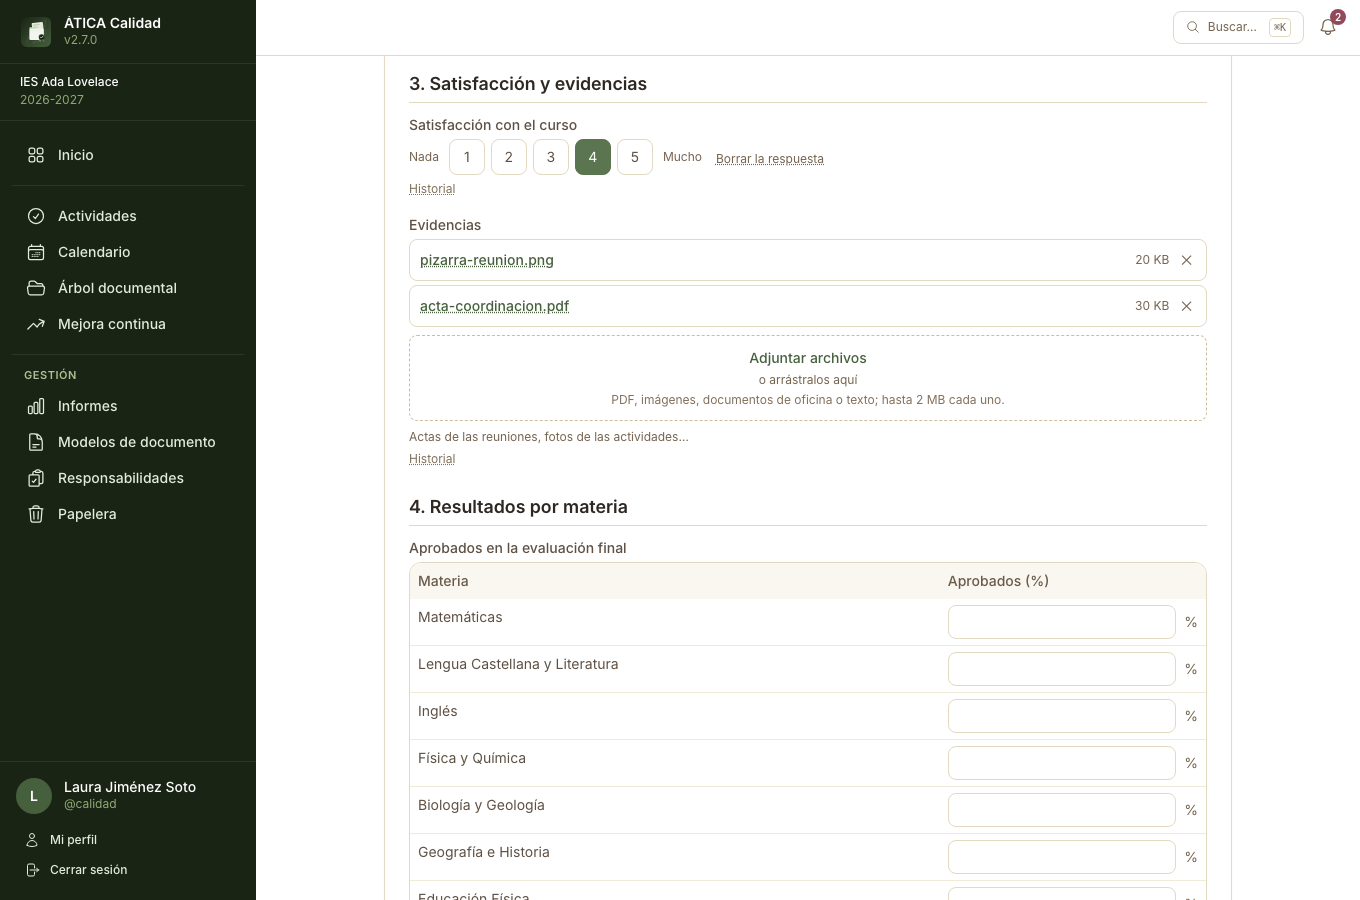
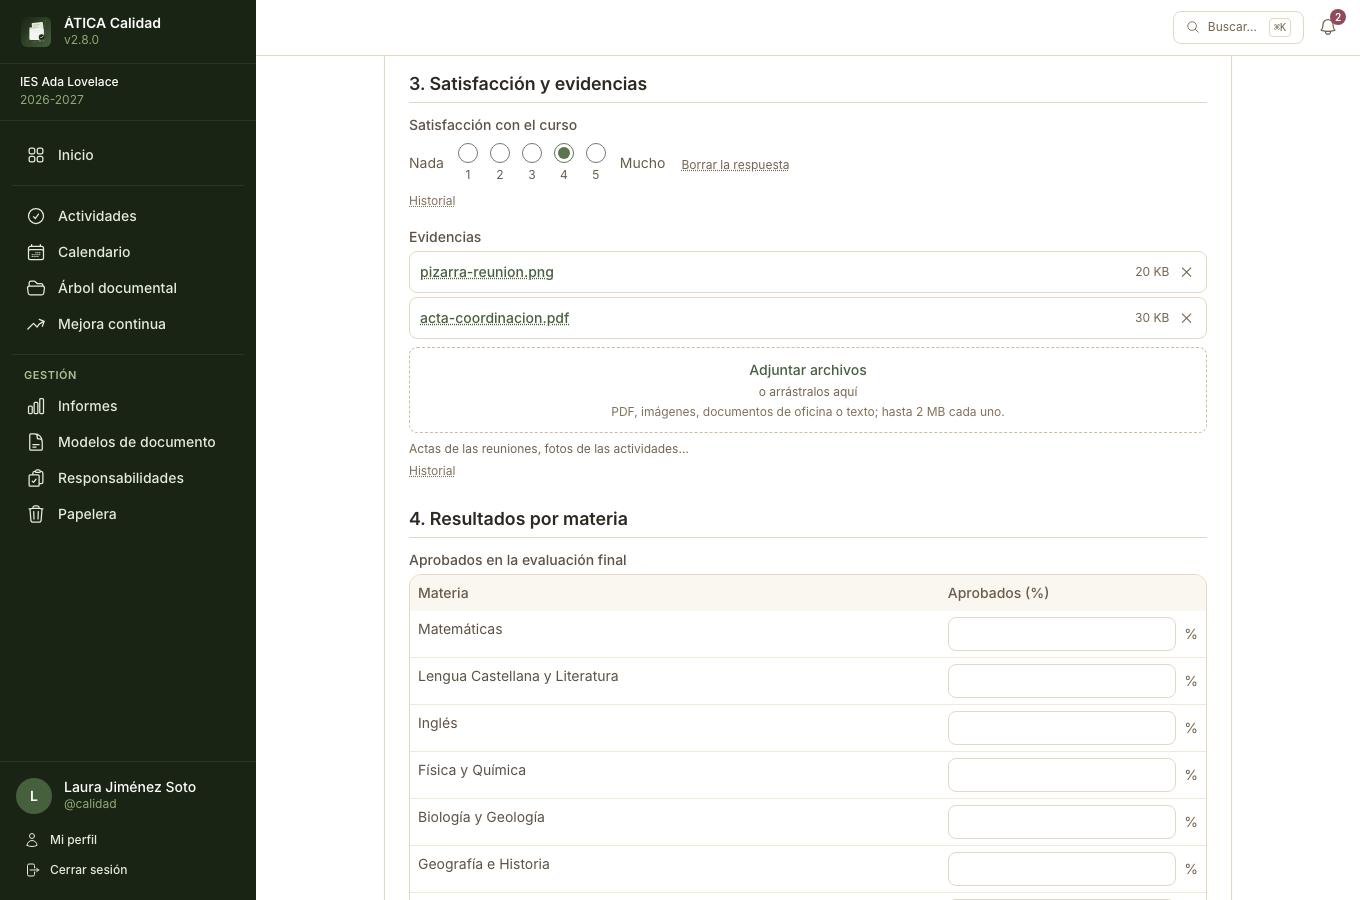
fix(forms): la escala de valoración se contesta con botones de opción visibles, como una escala Likert estándar

diff --git a/assets/controllers/form_fill_controller.js b/assets/controllers/form_fill_controller.js
@@ -772,26 +772,26 @@ export default class extends Controller {
                     text: this.l.clear_answer,
                     onclick: () => { radios.forEach((r) => { r.checked = false; }); clear.hidden = true; onChange(null); },
                 });
-                const pill = (n) => {
+                // The usual look of a rating: a row of radio buttons, the number under each, the words of the ends at the sides.
+                const point = (n) => {
                     const radio = h('input', {
-                        type: 'radio', name, value: String(n), checked: value === n, disabled, class: 'peer sr-only',
+                        type: 'radio', name, value: String(n), checked: value === n, disabled,
+                        class: 'h-5 w-5 cursor-pointer accent-forest-600 disabled:cursor-default',
+                        'aria-label': end(n) ? n + ' · ' + end(n) : String(n),
                         onchange: () => { clear.hidden = !!spec.required; onChange(n); },
                     });
                     radios.push(radio);
-                    return h('label', { class: 'cursor-pointer' }, [
+                    return h('label', { class: 'flex min-w-8 cursor-pointer flex-col items-center gap-1 px-1 py-1' }, [
                         radio,
-                        h('span', {
-                            class: 'flex h-9 min-w-9 items-center justify-center rounded-lg border border-gray-200 px-2 text-sm text-gray-700 hover:bg-gray-50 peer-checked:border-forest-600 peer-checked:bg-forest-600 peer-checked:text-white peer-focus-visible:ring-2 peer-focus-visible:ring-forest-500 peer-disabled:cursor-default',
-                            text: String(n),
-                        }),
+                        h('span', { class: 'text-xs text-gray-600', 'aria-hidden': 'true', text: String(n) }),
                     ]);
                 };
                 return h('fieldset', { id, class: 'min-w-0' }, [
                     h('legend', { class: 'sr-only', text: spec.label || '' }),
-                    h('div', { class: 'flex flex-wrap items-center gap-1.5' }, [
-                        spec.lowLabel ? h('span', { class: 'mr-1 text-xs text-gray-500', text: spec.lowLabel }) : null,
-                        ...Array.from({ length: points }, (_, i) => pill(i + 1)),
-                        spec.highLabel ? h('span', { class: 'ml-1 text-xs text-gray-500', text: spec.highLabel }) : null,
+                    h('div', { class: 'flex flex-wrap items-center gap-x-2 gap-y-1' }, [
+                        spec.lowLabel ? h('span', { class: 'text-sm text-gray-600', 'aria-hidden': 'true', text: spec.lowLabel }) : null,
+                        h('div', { class: 'flex items-start' }, Array.from({ length: points }, (_, i) => point(i + 1))),
+                        spec.highLabel ? h('span', { class: 'text-sm text-gray-600', 'aria-hidden': 'true', text: spec.highLabel }) : null,
                         h('span', { class: 'ml-2' }, [clear]),
                     ]),
                 ]);

diff --git a/docs/manual/12-modelos-de-documento.md b/docs/manual/12-modelos-de-documento.md
@@ -75,7 +75,7 @@ Un modelo se compone de **secciones** (numeradas jerárquicamente, anidables) co
 
   ![Editor del campo «Evidencias», de tipo «Adjuntos (archivos)»: «Archivos como máximo» 5, la casilla «Incluir las páginas de los PDF adjuntos al final del PDF entregado» y la explicación de los tipos y tamaños admitidos](img/modelos-editor-adjuntos.png)
 - **Escala de valoración**: una respuesta de 1 a N puntos (de 3 a 10; 5 si no se dice otra cosa), con
-  una palabra opcional para cada extremo («Nada» … «Mucho»). Se contesta pulsando el número (en una
+  una palabra opcional para cada extremo («Nada» … «Mucho»). Se contesta marcando uno de los puntos, con el número debajo de cada uno (en una
   tabla, en un desplegable) y se lee como «4 / 5». Cuenta como un número: sirve en fórmulas, en el
   total al pie (la **media** de una columna de valoraciones) y en los indicadores, que proponen la
   media. En el modelo en blanco se imprimen los puntos para marcarlos a mano. Una tabla de filas
@@ -237,7 +237,7 @@ cuánto falta para poder entregarlo. Lo que debes saber:
 
 ![Formulario «Memoria de departamento» a medio rellenar: el departamento «Matemáticas» elegido entre los de la lista, 11 reuniones, una valoración escrita en el editor de texto con su barra de formato y, en la tabla de coordinación, una fila con dos departamentos elegidos en un selector con buscador](img/modelos-rellenar.png)
 
-Más abajo, en la sección 3, la **escala de valoración** se contesta pulsando un número, y los
+Más abajo, en la sección 3, la **escala de valoración** se contesta marcando uno de sus puntos, y los
 **adjuntos** se eligen o se arrastran sobre el recuadro; cada archivo subido aparece en la lista, con
 su tamaño y una ✕ para quitarlo:
 

diff --git a/skills/forms.md b/skills/forms.md
@@ -129,7 +129,9 @@ because a script cannot read them: add a new icon in both places; the Spanish la
   `FormValueIndexer` stores it in `num`). Fields and free/fixed table columns only; a matrix cell is coerced to number. Reads «4 / 5»
   (+ the end's word on 1 and N) in `FormResolver::format()` and its twin `format()` in `form_scopes.js`. Unanswered, the resolver item
   carries `scale` (`FormResolver::scalePoints()`: «Nada ○ 1 … ○ 5 Mucho»), drawn by the blank web view, the blank PDF and the office
-  exports. The fill form draws radio pills (a fieldset; «Borrar la respuesta» for an optional one), a drop-down in a table cell.
+  exports. The fill form draws the usual Likert row: native radio buttons (visible, `accent-forest-600`, arrow keys move between
+  them) with the number under each and the words of the ends at the sides, in a fieldset; «Borrar la respuesta» for an optional one; a
+  drop-down in a table cell.
 - **«Resumen de la fila»** (editor only, no grammar change): a calculated table column gets a box that writes `fn([r:A];[r:B])` from a
   function (`ROW_SUMMARY`: sum avg min max count) and ticked columns (`rowSummary()` / `readRowSummary()` in `form_expression.js`,
   tested in `form-expression.test.mjs`). It recognises only formulas of exactly that shape; anything else is left alone until a box is
